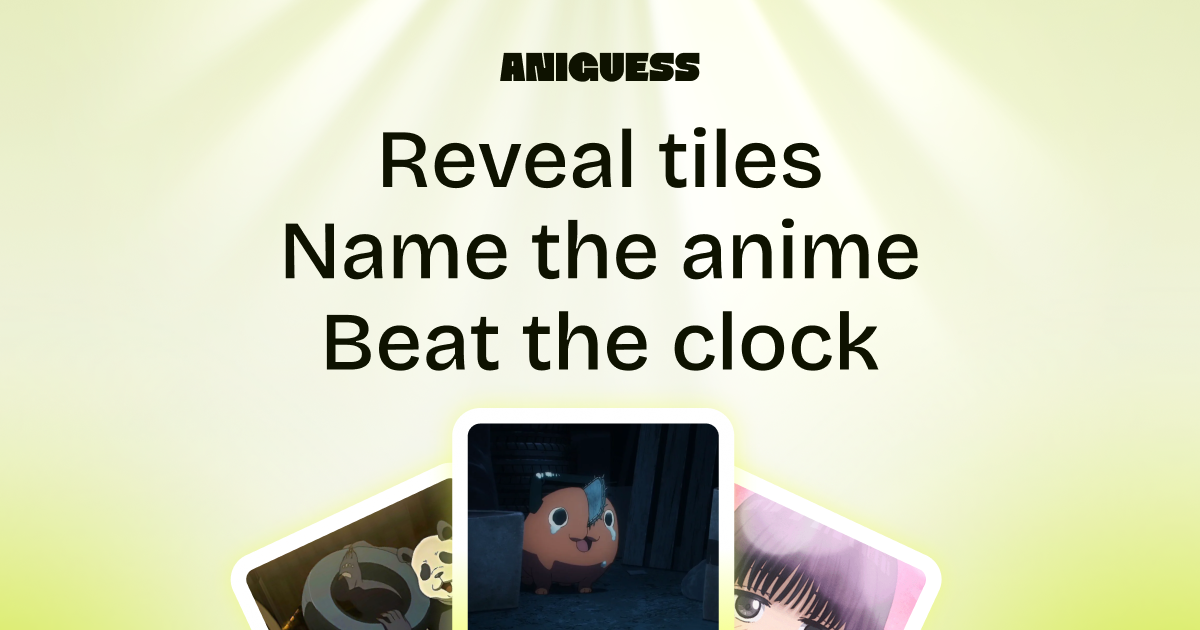
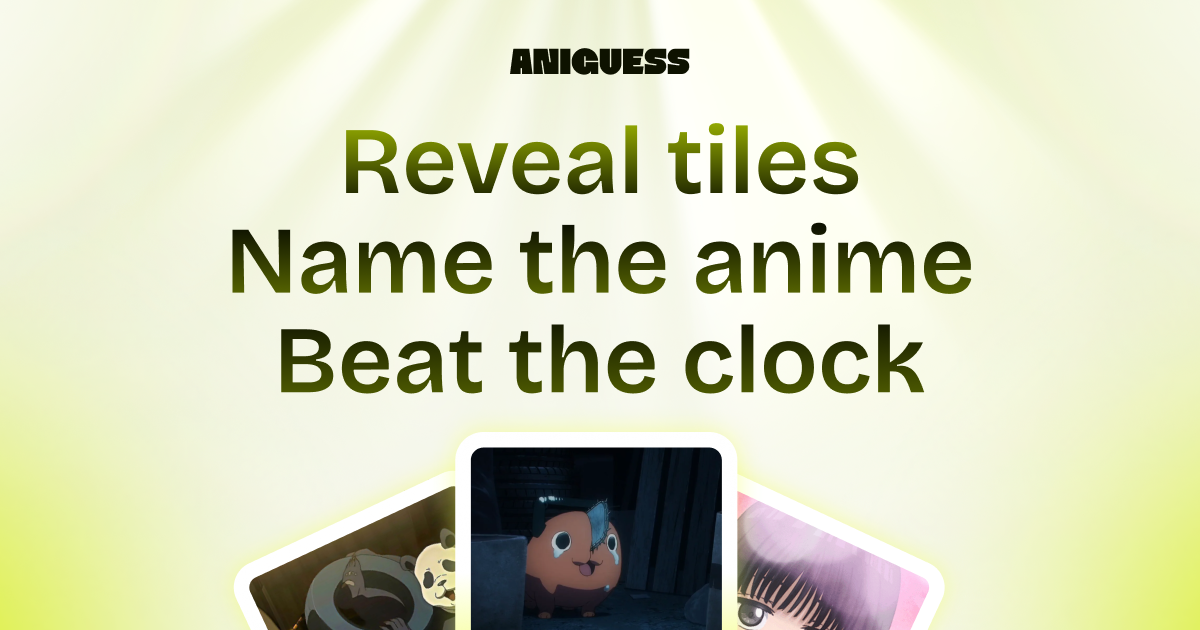
Update button styles and input fields in AnimeGuesser.jsx for improved UI consistency and user experience.

diff --git a/src/AnimeGuesser.jsx b/src/AnimeGuesser.jsx
@@ -458,6 +458,7 @@ html, body, #root {
 }
 
 @media (max-width: 639px){
+  .s-hero{margin-top:56px}
   .s-hero-left{align-items:center;text-align:center}
   .s-hero-left .s-t,.s-hero-left .s-sub{text-align:center}
   .s-hero-left .btn-howto-wrap{align-items:center}
